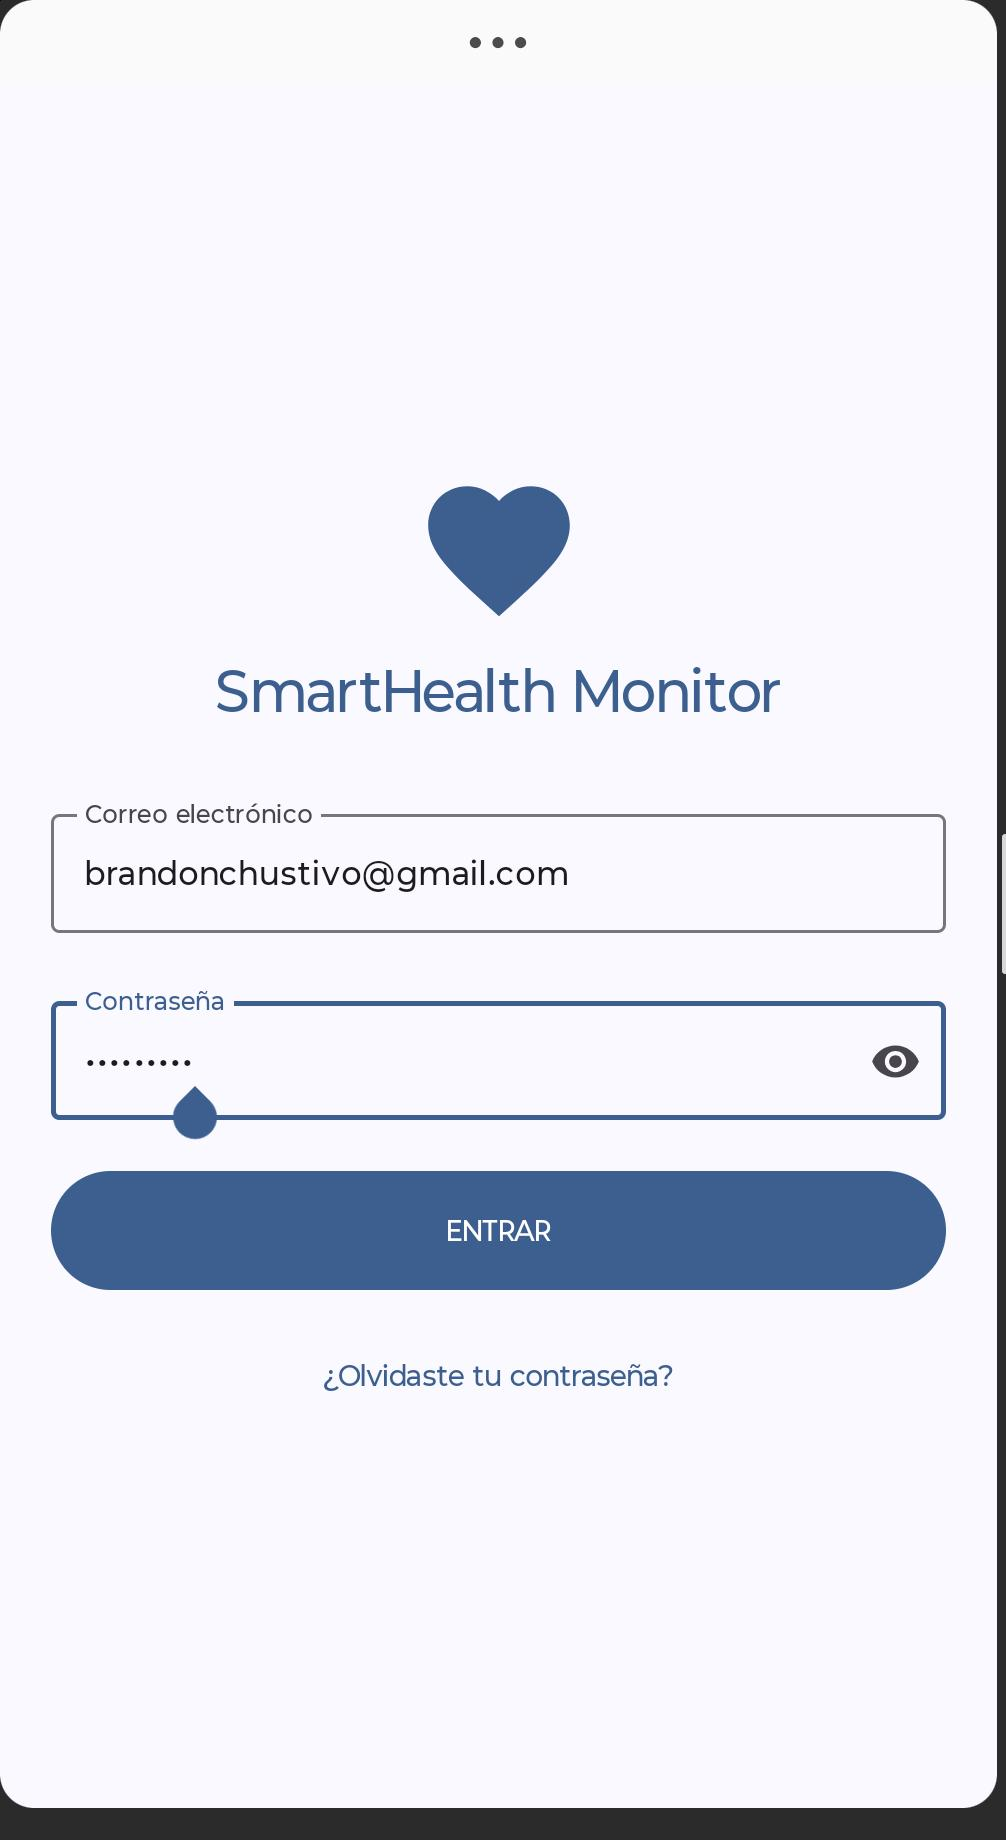
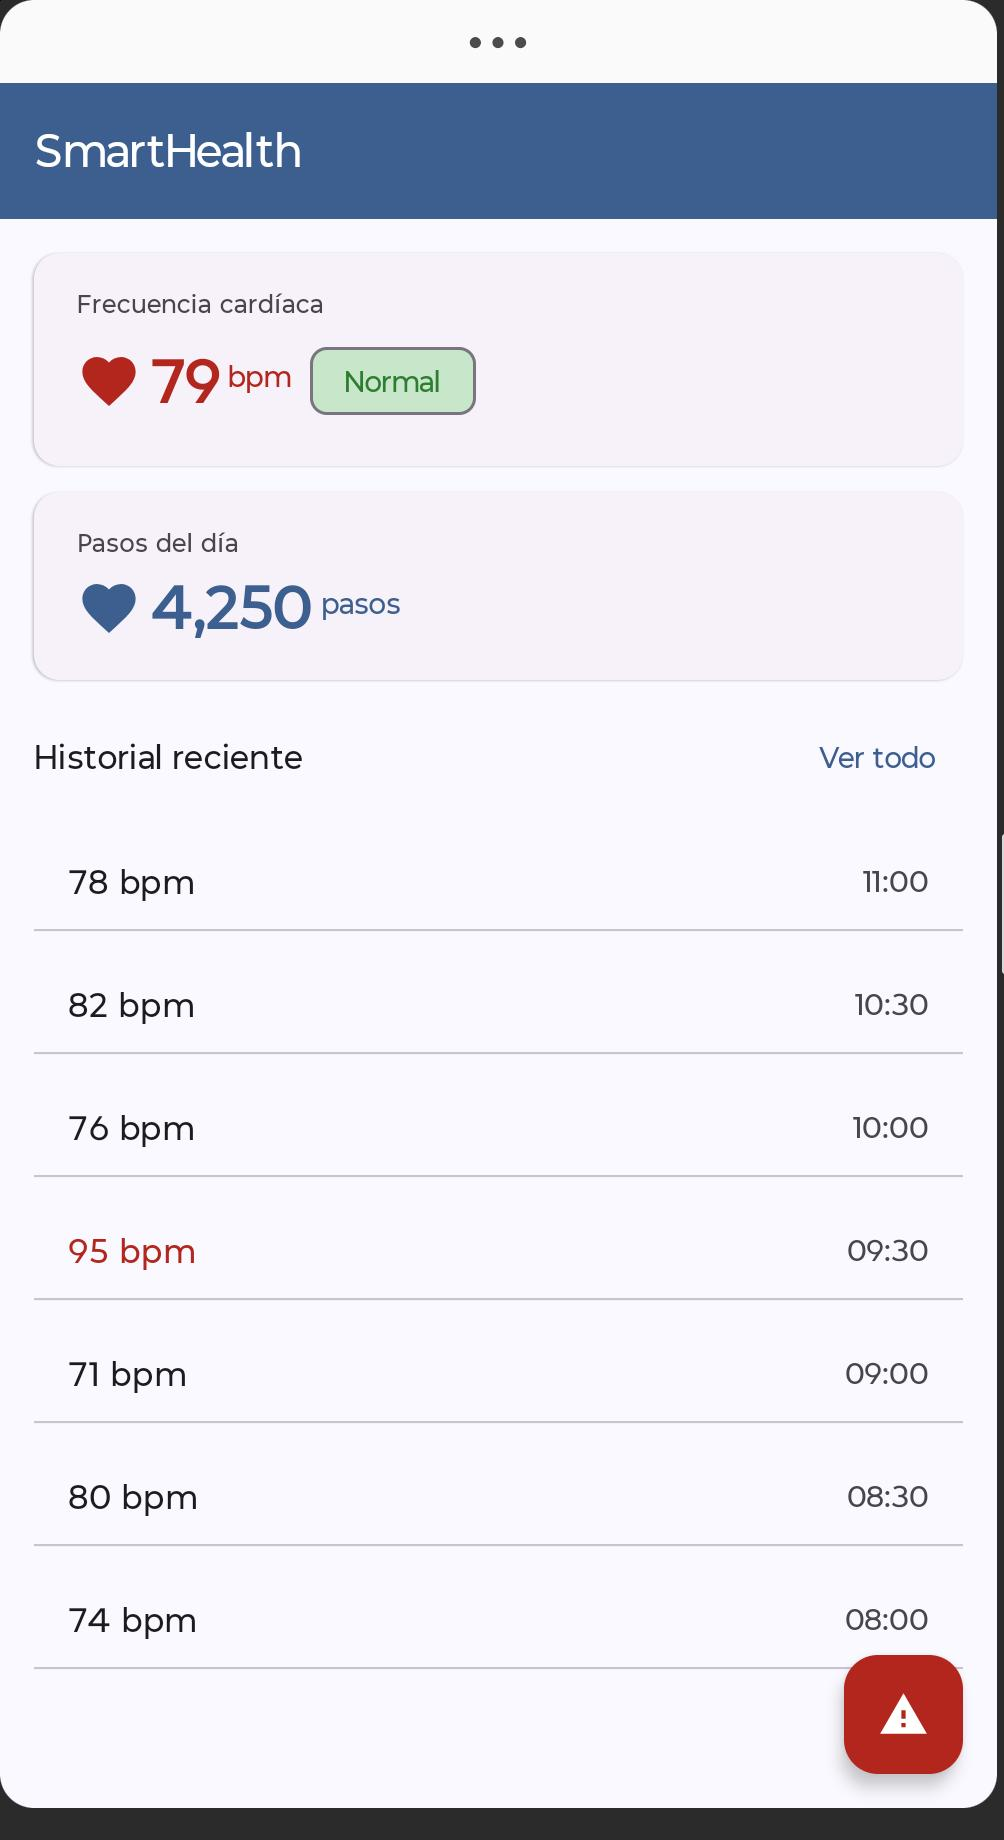
Correccion de las fotos

diff --git a/README.md b/README.md
@@ -8,8 +8,8 @@ Desarrollada como proyecto integrador en UTNG — 9° Cuatrimestre 2025.
 - **UI:** Jetpack Compose + Material Design 3
 - **Arquitectura:** Jetpack Navigation + Room + StateFlow
 - **Integraciones:**
-    - Wearable Data Layer API (Wear OS)
-    - Android TV / Leanback + Media3
+  - Wearable Data Layer API (Wear OS)
+  - Android TV / Leanback + Media3
 
 ## Pantallas implementadas
 - [x] LoginScreen — S4
@@ -20,10 +20,10 @@ Desarrollada como proyecto integrador en UTNG — 9° Cuatrimestre 2025.
 ## Capturas de pantalla
 
 ### Login
-![Login](screenshots/login.jpeg)
+<img src="screenshots/login.jpeg" width="300" alt="Login">
 
 ### Dashboard
-![Dashboard](screenshots/dashboard.jpeg)
+<img src="screenshots/dashboard.jpeg" width="300" alt="Dashboard">
 
 ## Autor
 Brandon Gustavo Mendoza Amaro — UTNG — [email redacted]